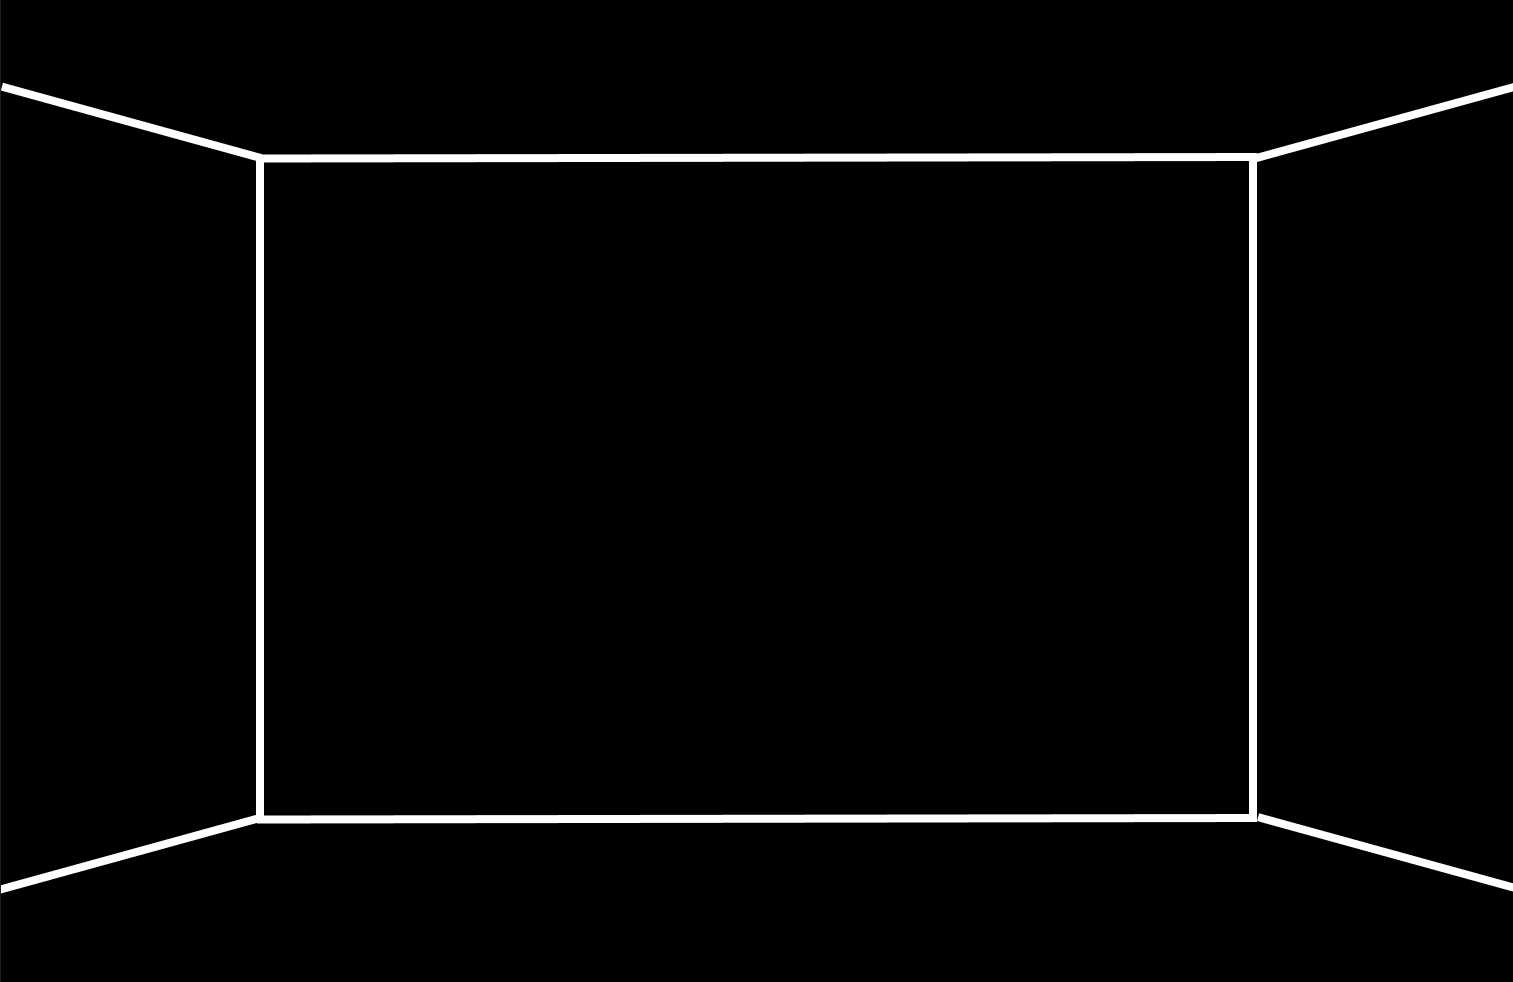
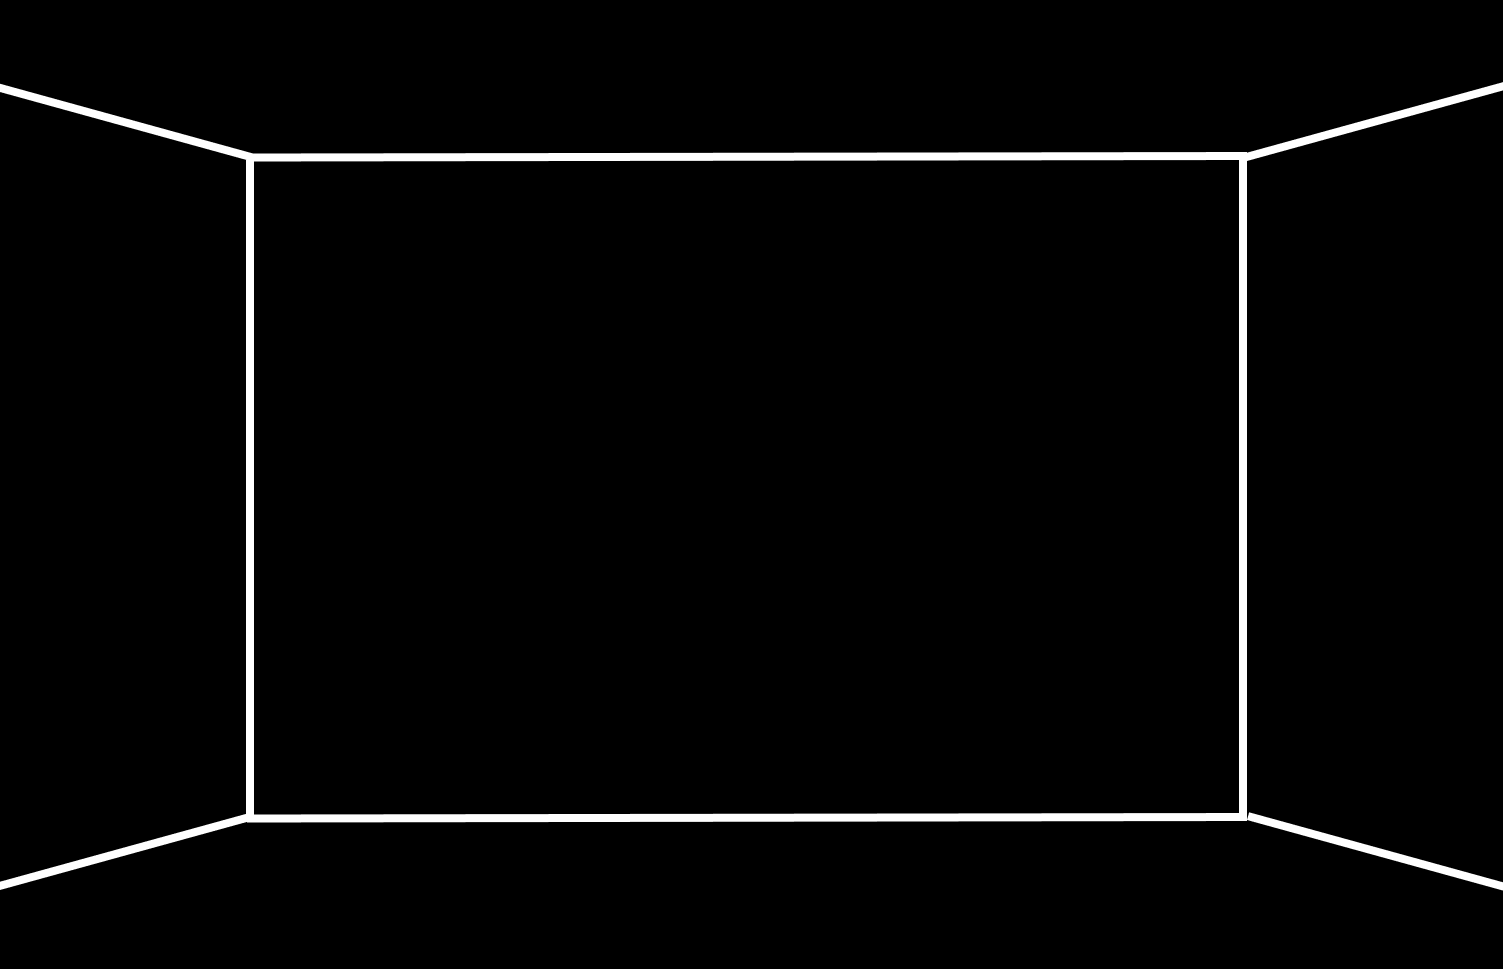
updates

Changed region(s): [[0.0, 0.1548, 1.0, 0.9288], [0.3979, 0.1548, 0.8263, 0.1858], [0.0, 0.0619, 0.153, 0.1548]]

diff --git a/src/pages/designers/designers.css b/src/pages/designers/designers.css
@@ -1,7 +1,7 @@
 .page{
     background-color: #000000;
     color: #FFFFFF;
-    width: 100vw;
+    width: 100%;
     height: 100%;
     display: grid;
     font-family: PPNeueMontreal;
